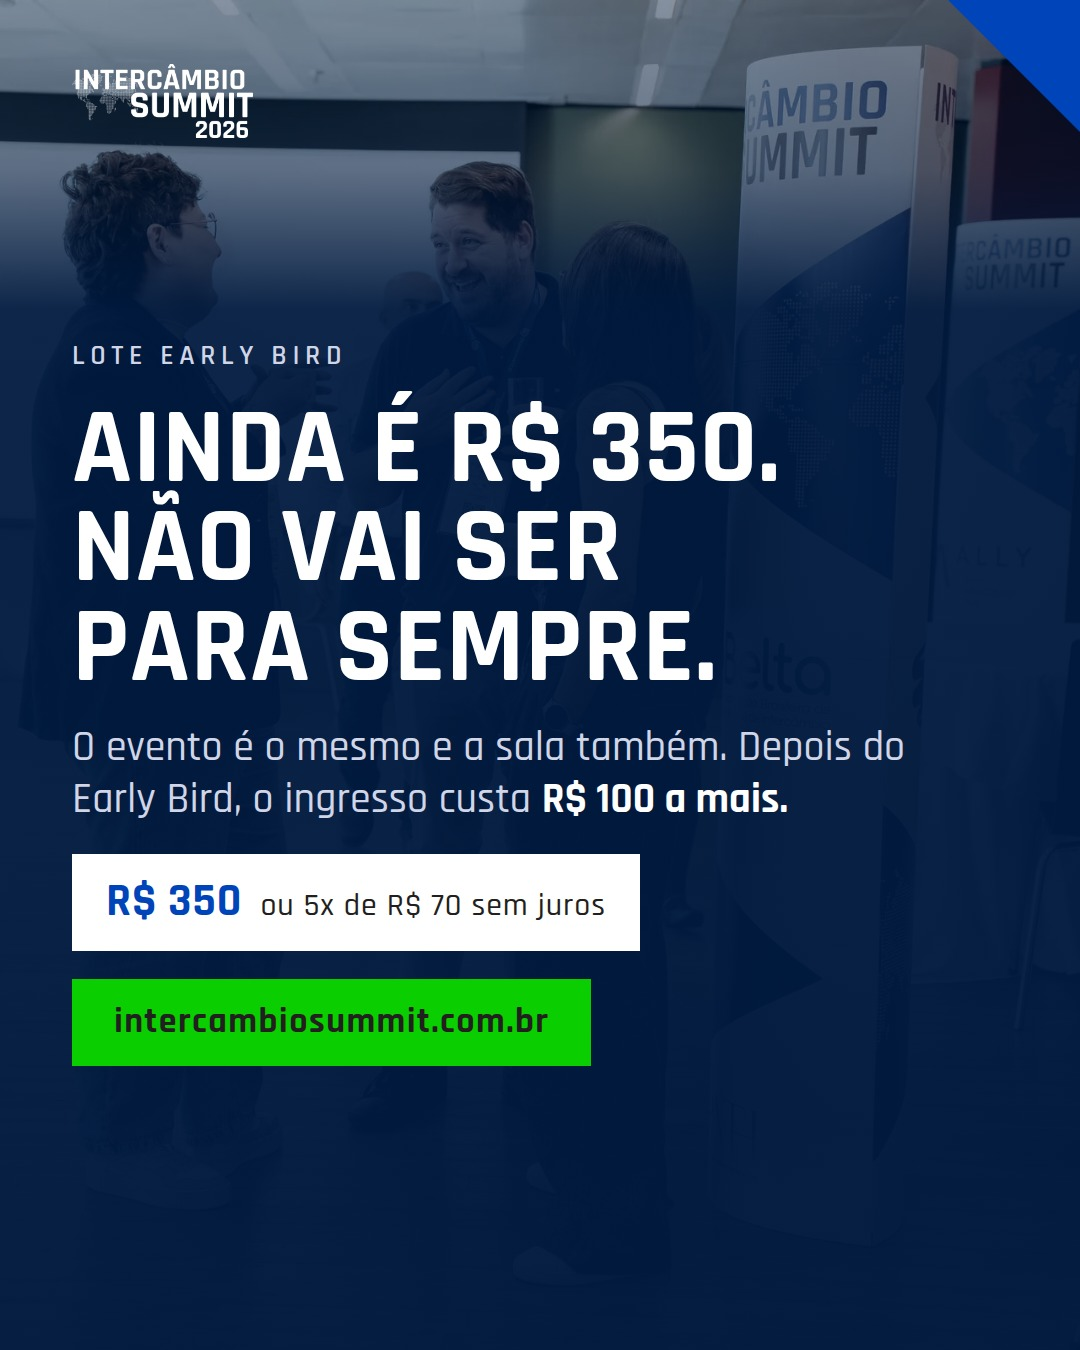
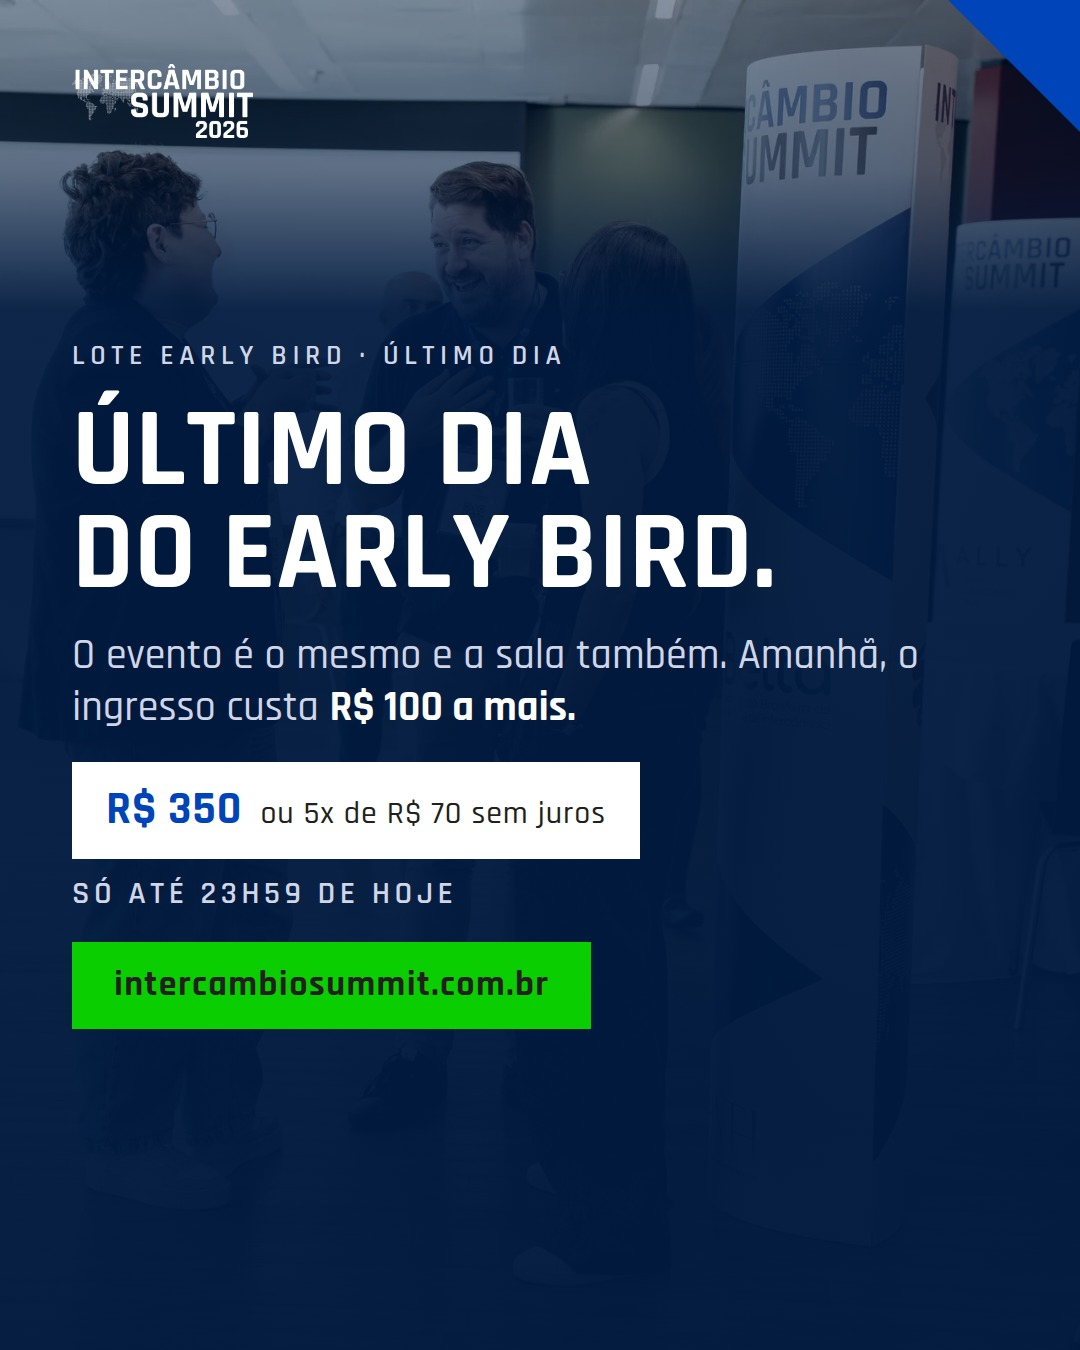
Posts de 30/09 como último dia do Early Bird; libera o P11 'termina hoje'
Feed e story de 30/09 passam a 'último dia, só até 23h59'. Plano e
agendamento de setembro atualizados.

Claude-Session: https://claude.ai/code/session_01K1jUSLEfcAN8o76QZJPw2m

Changed region(s): [[0.0611, 0.2489, 0.8556, 0.8089]]

diff --git a/criativos/build_campanha_outubro.py b/criativos/build_campanha_outubro.py
@@ -379,13 +379,14 @@ Ingressos no link da bio.
 
 {H_LOTE} #earlybird""")
 
-diario("2026-09-30", "12h00", "eb-ainda-350", "Lote Early Bird",
-       "AINDA É R$ 350.<br>NÃO VAI SER<br>PARA SEMPRE.", tsize=108, bg="plateia", pill_html=EB_PILL,
-       texto="O evento é o mesmo e a sala também. Depois do Early Bird, o ingresso custa <strong>R$ 100 a mais.</strong>",
-       story_hora="18h00", story_ts=108,
-       legenda=f"""Ainda é R$ 350. Mas não vai ser para sempre.
+diario("2026-09-30", "12h00", "eb-ainda-350", "Lote Early Bird · último dia",
+       "ÚLTIMO DIA<br>DO EARLY BIRD.", tsize=112, bg="plateia",
+       pill_html=EB_PILL + prazo("Só até 23h59 de hoje"),
+       texto="O evento é o mesmo e a sala também. Amanhã, o ingresso custa <strong>R$ 100 a mais.</strong>",
+       story_hora="18h00", story_ts=112,
+       legenda=f"""Hoje é o último dia do Lote Early Bird do Intercâmbio Summit 2026.
 
-O Lote Early Bird do Intercâmbio Summit 2026 está aberto: R$ 350, ou 5x de R$ 70 sem juros. Depois dele, o Segundo lote custa R$ 450. Mesmo dia, mesma sala, mesmas 144 cadeiras.
+R$ 350, ou 5x de R$ 70 sem juros, até 23h59 de hoje. A partir de amanhã, o Segundo lote custa R$ 450. Mesmo dia, mesma sala, mesmas 144 cadeiras.
 
 Não vamos insistir. Só deixar a conta à vista.
 
@@ -393,7 +394,7 @@ Não vamos insistir. Só deixar a conta à vista.
 
 Ingressos no link da bio.
 
-{H_LOTE} #earlybird""")
+{H_LOTE} #earlybird #ultimodia""")
 
 diario("2026-10-01", "12h00", "eb-prorrogado", "Lote Early Bird · prorrogado",
        "EARLY BIRD<br>PRORROGADO<br>ATÉ 02/10.", tsize=104, bg="painel", story_hora="10h00", story_ts=112,

diff --git a/criativos/campanha-outubro-PLANO.md b/criativos/campanha-outubro-PLANO.md
@@ -71,13 +71,18 @@ Prêmio última semana 27/10, último dia de votação 30/10, contagem final 09/
 
 | Data | Peça |
 |---|---|
-| 29/09 e 30/09 | "Não compre o Early Bird" e "Ainda é R$ 350": **sem data final**, só "depois do Early Bird, R$ 100 a mais" |
+| 29/09 | "Não compre o Early Bird": **sem data final**, só "depois do Early Bird, R$ 100 a mais" |
+| 30/09 | **Último dia do Early Bird** (decisão do Rodrigo): feed 12h e story 18h "Só até 23h59 de hoje"; o P11 "termina hoje" do pacote de setembro (08h) também está liberado |
 | 01/10 | Feed 12h e story 10h: "Early Bird prorrogado até 02/10" |
 | 02/10 | Feed 9h e story 12h30: "Amanhã, R$ 100 a mais" (último dia, 23h59) |
 | 03/10 | Story "Segundo lote" (R$ 450 até 24/10) |
 
-**Não publicar** os dois P11 do pacote de setembro ("último dia" 29/09 e "termina hoje" 30/09): afirmam
-prazo final que deixou de valer. Estão marcados como bloqueados no `AGENDAMENTO.md` de setembro.
+**Não publicar** o P11 "último dia" de 29/09 do pacote de setembro: o Early Bird termina em 30/09 na comunicação. Continua
+marcado como bloqueado no `AGENDAMENTO.md` de setembro. O P11 "termina hoje" (30/09) foi liberado.
+
+**Ponto de atenção (Rodrigo decidiu manter):** dizer "último dia" em 30/09 e prorrogar em 01/10 pode ser lido como urgência
+falsa. O texto do dia 30 diz só o que vale no dia (preço e prazo do lote), e o de 01/10 assume a prorrogação sem justificar
+com escassez.
 
 **Dependência técnica (atualizado em 30/09).** O site mostra o Early Bird **até 30/09** e, a partir de 01/10 (00:00, horário do
 visitante), passa sozinho a mostrar **"Early Bird prorrogado: R$ 350 até 2 de outubro"** e o Segundo lote a partir de 3 de outubro.

diff --git a/criativos/out/setembro-planner/AGENDAMENTO.md b/criativos/out/setembro-planner/AGENDAMENTO.md
@@ -21,7 +21,7 @@ Horários são sugestão (público consome no meio do expediente); ajustar à vo
 | 2026-09-23 | 17h00 | carrossel-myrko | 9 | aguardando agendamento |
 | 2026-09-25 | 11h30 | formato-mudou | 1 | aguardando agendamento |
 | 2026-09-29 | 09h00 | ultimo-dia-early-bird | 1 | ⛔ NÃO publicar: Early Bird prorrogado até 02/10 |
-| 2026-09-30 | 08h00 | termina-hoje | 1 | ⛔ NÃO publicar: Early Bird prorrogado até 02/10 |
+| 2026-09-30 | 08h00 | termina-hoje | 1 | liberado: último dia do Early Bird (decisão do Rodrigo em 30/09; a prorrogação é anunciada em 01/10) |
 
 Observações:
 - Vendas abertas desde 02/09: P1 (11h30) anuncia e P3 (17h00) converte no mesmo dia.
